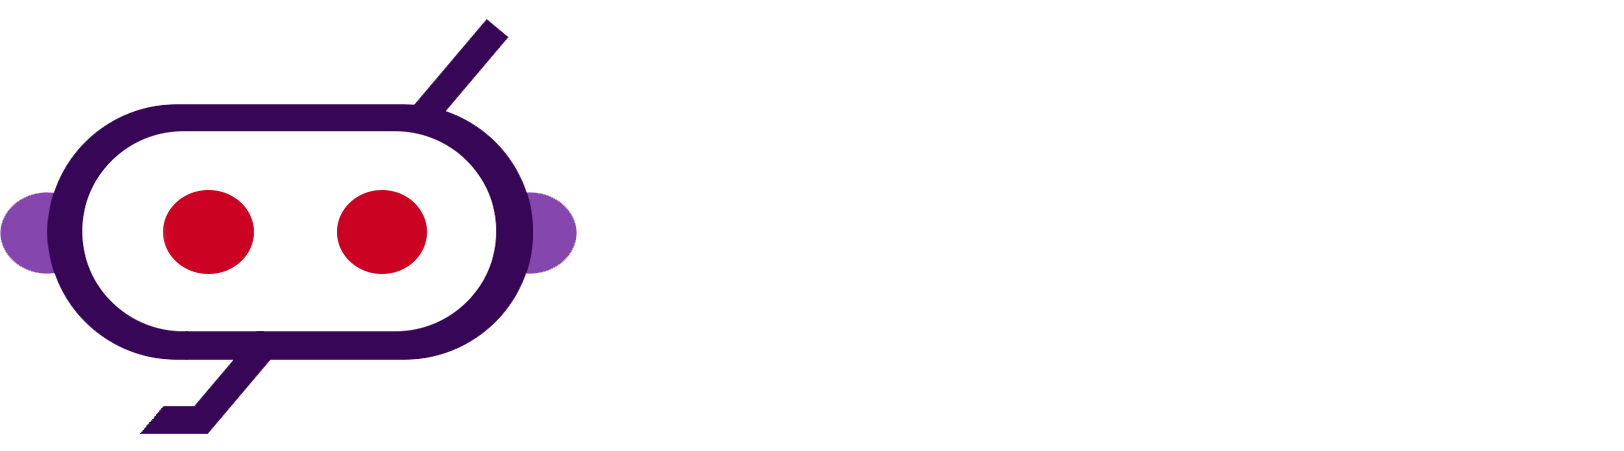
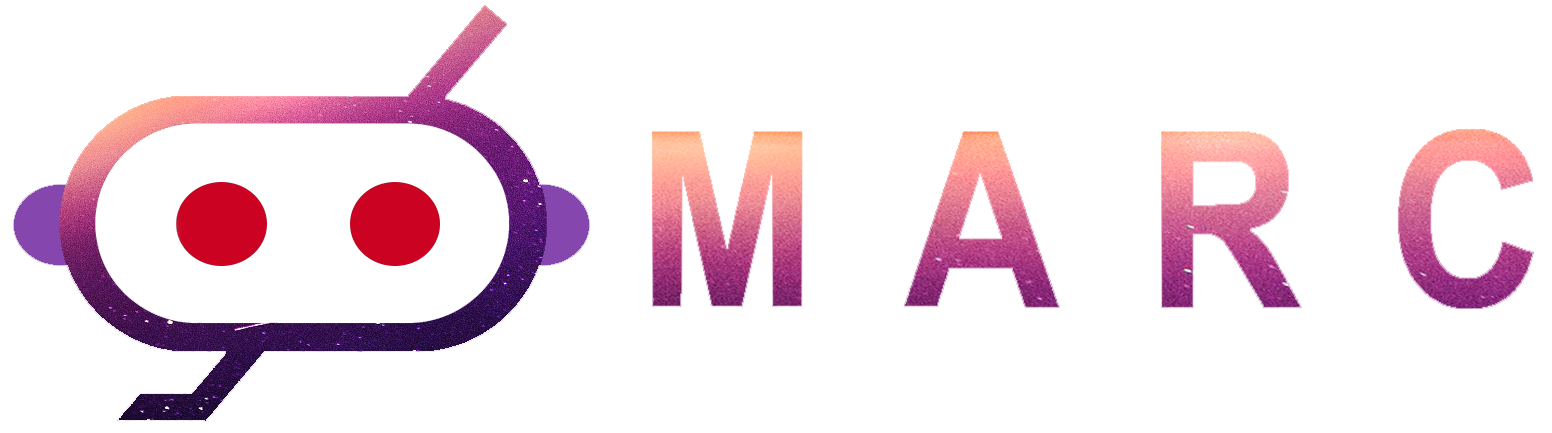
Added design on overview page

diff --git a/Frontend_React/src/App.js b/Frontend_React/src/App.js
@@ -7,7 +7,6 @@ import Addcourse  from './components/add_course.js';
 import Register from './components/Register';
 import Courses from './components/Courses';
 import Markers from './components/Markers';
-import SendEmails from './components/SendEmails';
 import Overview  from './components/index';
 
 import Modal from 'react-modal'
@@ -36,7 +35,7 @@ function App() {
         <ReflexElement className="header" flex={0.1}>
           <header class="navbar navbar-expand-sm bg-dark navbar-dark" style={{"z-index": "99999",width: "100%", height:"75px"}}>
             <a href="/" className="navbar-brand">
-              <img src={logo} style={{width:"180px"}} alt="marcLogo"/>
+              <img src={logo} style={{width:"200px", paddingRight:"20px"}} alt="marcLogo"/>
             </a>
             <div className="navbar-nav mr-auto">
               <li className="nav-item" onClick={()=>SetModalIsOpen(true)}>
@@ -60,12 +59,6 @@ function App() {
                   Course List
                 </Link>
               </li>
-              {/* The email link below will only be visible if authenticated user is viewing the page */}
-              <li className="nav-item"> 
-                <Link to={"/email"} className="nav-link">
-                  Send Email
-                </Link>
-              </li>
               <div className="navbar-right">
               <li className="nav-item">
                 <Link to={"/register"} className="nav-link">
@@ -83,7 +76,6 @@ function App() {
             <Route path="/markers" component={Markers} />
             <Route path="/allocate" component={Courses} />
             <Route path="/register" component={Register} />
-            <Route path="/email" component = {SendEmails} />
         </div>
         
       </div>

diff --git a/Frontend_React/src/components/course.js b/Frontend_React/src/components/course.js
@@ -2,6 +2,7 @@ import React, {Component} from 'react';
 import axios from "axios";
 import Modal from 'react-modal';
 import MyModal from './course-modal'; 
+import './course.css'; 
 
 const MODAL_A = 'modal_a';
 const MODAL_B = 'modal_b';
@@ -86,7 +87,7 @@ export default class Course extends Component{
             <div>
                 <p>
                     {this.state.courses.map(course=>
-                        <div>
+                        <div style={{"padding-bottom": "15px"}}>
                             <button class="openbtn" onClick={this.handleClick(course)}>
                                 {course.Course_name}</button> 
                         </div>

diff --git a/Frontend_React/src/components/course.css b/Frontend_React/src/components/course.css
@@ -1,0 +1,10 @@
+.openbtn{
+    background: rgba(76, 175, 80, 0.5);
+    border: none;
+    color: white;
+    padding: 15px 32px;
+    text-align: center;
+    text-decoration: none;
+    display: inline-block;
+    font-size: 16px;
+}
